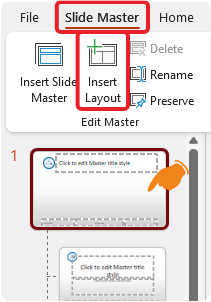
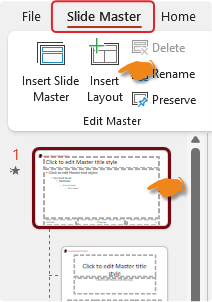
M

Changed region(s): [[0.0284, 0.0, 1.0, 1.0], [0.0853, 0.0298, 0.1991, 0.0894], [0.0569, 0.4768, 0.0853, 0.596]]

diff --git a/materi-powerpoint.html b/materi-powerpoint.html
@@ -3334,8 +3334,7 @@
                           <div class="row">
                             <div class="col-md-6">
                               <ul>
-                                <li>
-                                  Membuat <strong>Tema Font Korporat</strong> sendiri dengan nama
+                                <li>Membuat <strong>Tema Font Korporat</strong> sendiri dengan nama
                                   "<strong>Fontku</strong>". <br>
                                   <div class="my-3">
                                     <img src="assets/img/Fonts.png" alt="" class="img-fluid shadow rounded">
@@ -3362,70 +3361,76 @@
                           </div><!-- /row -->
 
                           <!-- layout baru -->
-                          <strong>Buat layout baru</strong>
                           <div class="row">
                             <div class="col-md-6">
                               <ul>
                                 <li>
+                                  <strong>Buat layout baru</strong> <br>
                                   Pilih Slide Master paling atas → <strong>Insert Layout</strong>
                                   <div class="my-3">
                                     <img src="assets/img/Insert-Layout.png" alt="" class="img-fluid shadow rounded">
                                   </div>
-                                  Akan muncul layout baru di Slide yang paling bawah dengan nama Custom Layout (atau
-                                  Layout baru).
-                                  <div class="my-3">
-                                    <img src="assets/img/Custom-Layout.png" alt="" class="img-fluid shadow rounded">
-                                  </div>
                                 </li>
-
-                                <li>
-                                  Rename layout tersebut: <br>
-                                  Klik kanan <i class="bi bi-mouse2"></i> pada layout → <strong>Rename Layout</strong>
-                                  <br>
-                                  Ubah menjadi: Judul + Gambar Kiri
-                                  <div class="my-3">
-                                    <img src="assets/img/Rename-Layout2.png" alt="" class="img-fluid shadow rounded">
-                                  </div>
-                                </li>
-
-                                <li>
-                                  Tambahkan placeholder untuk gambar di sebelah kiri: <br>
-                                  <ul class="dash-list">
-                                    <li>Tab <strong>Slide Master</strong> → <strong>Insert Placeholder</strong> →
-                                      <strong>Picture</strong>
-                                    </li>
-                                    <li>Gambar placeholder akan muncul di layout, ubah ukurannya menjadi setengah Slide
-                                      (kiri)</li>
-                                  </ul>
-                                </li>
-                                <li>
-                                  <ul class="dash-list">
-                                    <li>Tambahkan placeholder untuk teks di sebelah kanan: <br>
-                                      Tab <strong>Slide Master</strong> → <strong>Insert Placeholder</strong> →
-                                      <strong>Text</strong>
-                                    </li>
-                                    <li>Ubah ukuran placeholder teks menjadi setengah Slide (kanan)</li>
-                                  </ul>
-                                </li>
-                                <li>
-                                  <div class="my-3">
-                                    <img src="assets/img/placeholder-picture.png" alt=""
-                                      class="img-fluid shadow rounded">
-                                  </div>
-                                  Hasil:
-                                  <div class="my-3">
-                                    <img src="assets/img/Judul-Gambar-Kiri.png" alt="" class="img-fluid shadow rounded">
-                                  </div>
-                                </li>
-
                               </ul>
                             </div>
                             <div class="col-md-6">
+                              Akan muncul layout baru di Slide yang paling bawah dengan nama Custom Layout (atau
+                              Layout baru).
                               <div class="my-3">
-                                <img src="assets/img/" alt="" class="img-fluid shadow rounded">
+                                <img src="assets/img/Custom-Layout.png" alt="" class="img-fluid shadow rounded">
                               </div>
                             </div>
                           </div><!-- /row -->
+
+                          <!-- Rename -->
+                          <div class="row">
+                            <div class="col-md-6">
+                              <ul>
+                                <li>Rename layout tersebut: <br>
+                                  Klik kanan <i class="bi bi-mouse2"></i> pada layout → <strong>Rename Layout</strong>
+                                </li>
+                              </ul>
+                            </div>
+                            <div class="col-md-6">
+                              Ubah menjadi: Judul + Gambar Kiri
+                              <div class="my-3">
+                                <img src="assets/img/Rename-Layout2.png" alt="" class="img-fluid shadow rounded">
+                              </div>
+                            </div>
+                          </div>
+
+                          <li>
+                            Tambahkan placeholder untuk gambar di sebelah kiri: <br>
+                            <ul class="dash-list">
+                              <li>Tab <strong>Slide Master</strong> → <strong>Insert Placeholder</strong> →
+                                <strong>Picture</strong>
+                              </li>
+                              <li>Gambar placeholder akan muncul di layout, ubah ukurannya menjadi setengah Slide
+                                (kiri)</li>
+                            </ul>
+                          </li>
+
+                          <li>
+                            <ul class="dash-list">
+                              <li>Tambahkan placeholder untuk teks di sebelah kanan: <br>
+                                Tab <strong>Slide Master</strong> → <strong>Insert Placeholder</strong> →
+                                <strong>Text</strong>
+                              </li>
+                              <li>Ubah ukuran placeholder teks menjadi setengah Slide (kanan)</li>
+                            </ul>
+                          </li>
+                          <li>
+                            <div class="my-3">
+                              <img src="assets/img/placeholder-picture.png" alt="" class="img-fluid shadow rounded">
+                            </div>
+                            Hasil:
+                            <div class="my-3">
+                              <img src="assets/img/Judul-Gambar-Kiri.png" alt="" class="img-fluid shadow rounded">
+                            </div>
+                          </li>
+
+                          </ul>
+
 
                           <!-- Close Master View -->
                           <div class="row">
